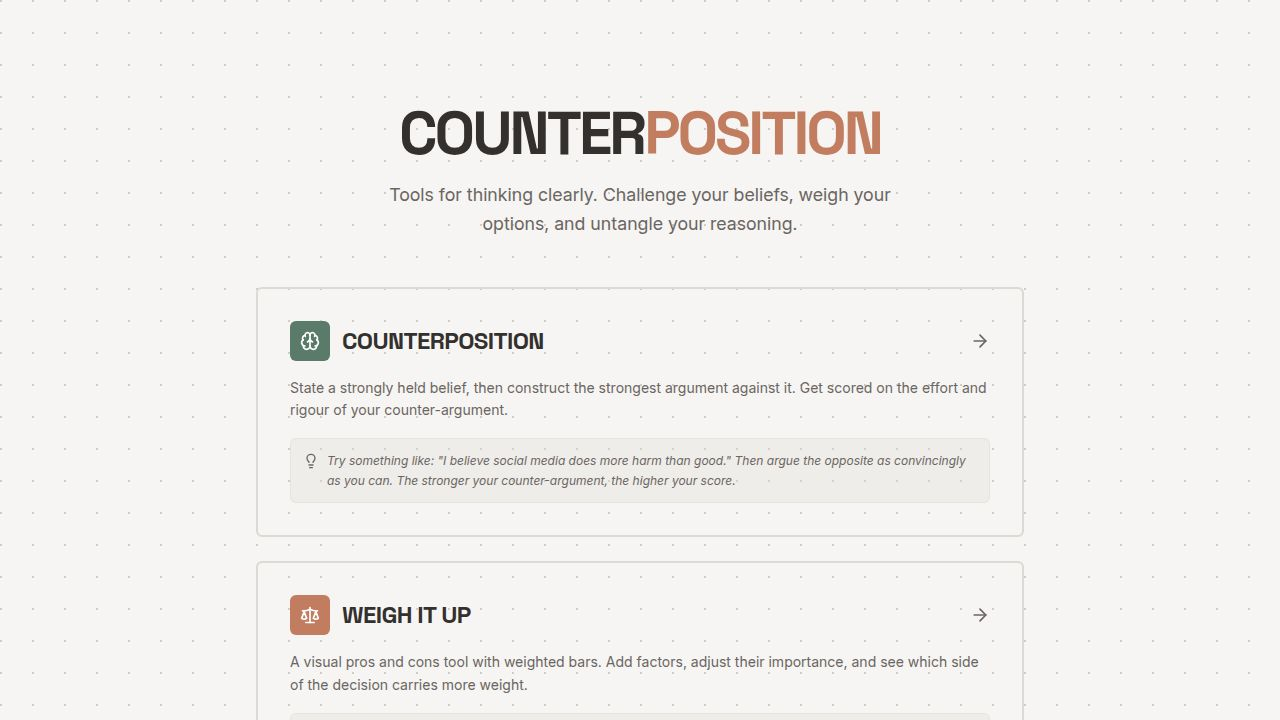
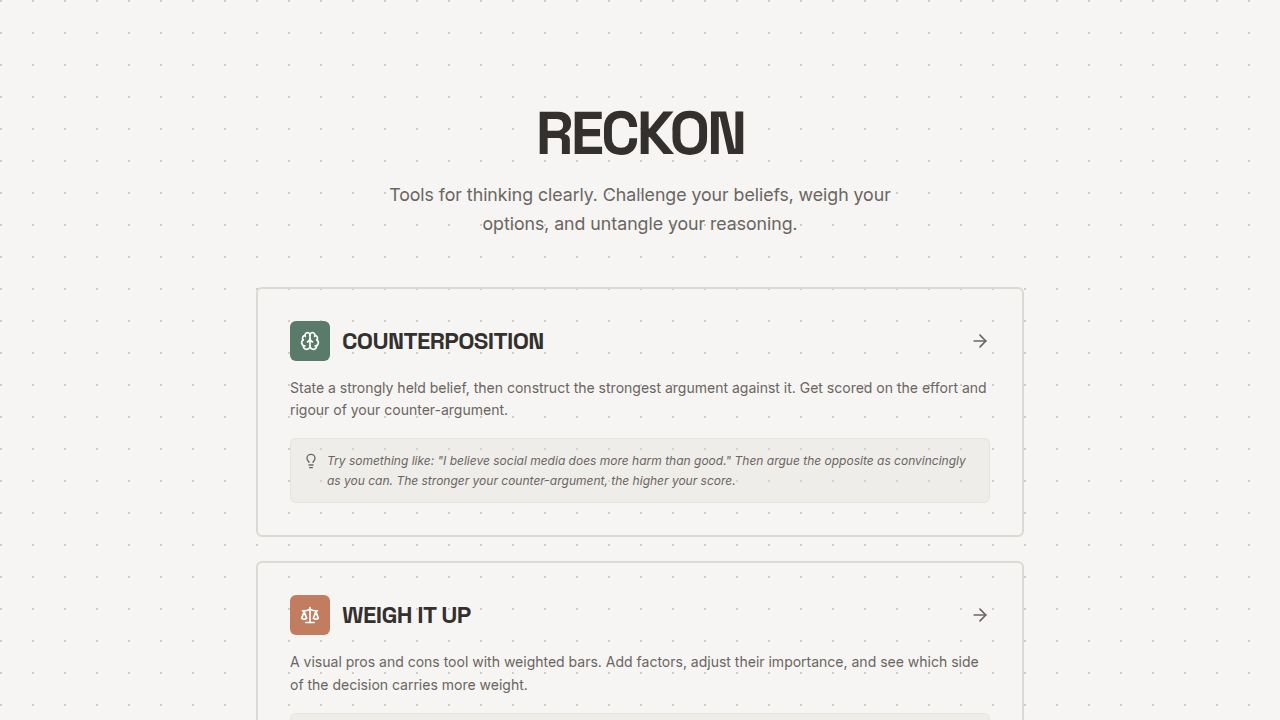
Update the application name and branding to "Reckon"
Update the application name from "Counterposition" to "Reckon" across all relevant files, including index.html, disclaimer.tsx, and home.tsx, and update the replit.md file accordingly.

Replit-Commit-Author: Agent
Replit-Commit-Session-Id: c56cb9f0-ece5-44cb-8091-604c8c0c9004
Replit-Commit-Checkpoint-Type: full_checkpoint
Replit-Commit-Event-Id: db3dcd39-e894-4f36-9f07-ffc56135f96e
Replit-Commit-Screenshot-Url: https://storage.googleapis.com/screenshot-production-us-central1/ae5b64c9-4776-44ef-aa27-5b3fa9850580/c56cb9f0-ece5-44cb-8091-604c8c0c9004/HMcQsaC
Replit-Helium-Checkpoint-Created: true

Changed region(s): [[0.3125, 0.1528, 0.6875, 0.2139]]

diff --git a/client/src/pages/disclaimer.tsx b/client/src/pages/disclaimer.tsx
@@ -23,7 +23,7 @@ export default function Disclaimer() {
           <div>
             <h1 className="text-4xl font-bold uppercase tracking-tighter">Terms of Use</h1>
             <p className="text-sm text-muted-foreground mt-2">
-              Please read the following carefully before using Counterposition.
+              Please read the following carefully before using Reckon.
             </p>
           </div>
 
@@ -32,7 +32,7 @@ export default function Disclaimer() {
               <h2 className="text-lg font-bold uppercase tracking-wider">1. Purpose and Scope</h2>
               <div className="border-l-4 border-[#5B7B6A] pl-4 space-y-2">
                 <p className="text-sm leading-relaxed text-muted-foreground">
-                  Counterposition is a cognitive exercise tool designed to assist users in structuring their thinking around decisions, beliefs, and trade-offs. The tools provided — including the counterargument scorer, Weigh It Up, and Unthread — are intended solely as guides to support personal reflection and decision-making processes.
+                  Reckon is a cognitive exercise tool designed to assist users in structuring their thinking around decisions, beliefs, and trade-offs. The tools provided — including the counterargument scorer, Weigh It Up, and Unthread — are intended solely as guides to support personal reflection and decision-making processes.
                 </p>
                 <p className="text-sm leading-relaxed text-muted-foreground">
                   This platform does not provide professional advice of any kind, including but not limited to financial, legal, medical, or psychological advice. It should not be used as a substitute for qualified professional consultation.
@@ -56,7 +56,7 @@ export default function Disclaimer() {
               <h2 className="text-lg font-bold uppercase tracking-wider">3. Limitation of Liability</h2>
               <div className="border-l-4 border-[#5B7B6A] pl-4 space-y-2">
                 <p className="text-sm leading-relaxed text-muted-foreground">
-                  Counterposition and its creators accept no responsibility or liability for any decisions made, actions taken, or outcomes arising from the use of this tool. The results, scores, and insights generated by this platform are intended to provoke thought and facilitate structured reasoning — they are not directives, recommendations, or endorsements of any particular course of action.
+                  Reckon and its creators accept no responsibility or liability for any decisions made, actions taken, or outcomes arising from the use of this tool. The results, scores, and insights generated by this platform are intended to provoke thought and facilitate structured reasoning — they are not directives, recommendations, or endorsements of any particular course of action.
                 </p>
                 <p className="text-sm leading-relaxed text-muted-foreground">
                   Users acknowledge that they bear full responsibility for any decisions they make, whether or not those decisions are informed by the use of this platform.
@@ -68,7 +68,7 @@ export default function Disclaimer() {
               <h2 className="text-lg font-bold uppercase tracking-wider">4. Data Handling</h2>
               <div className="border-l-4 border-[#5B7B6A] pl-4 space-y-2">
                 <p className="text-sm leading-relaxed text-muted-foreground">
-                  Information entered into Counterposition is processed in real time and is not stored, saved, or retained beyond the duration of your active session. Once you leave or refresh the page, all data you have entered is permanently discarded.
+                  Information entered into Reckon is processed in real time and is not stored, saved, or retained beyond the duration of your active session. Once you leave or refresh the page, all data you have entered is permanently discarded.
                 </p>
                 <p className="text-sm leading-relaxed text-muted-foreground">
                   Notwithstanding the above, users should exercise caution and avoid entering information they would not be comfortable sharing in a non-secure environment.
@@ -80,7 +80,7 @@ export default function Disclaimer() {
               <h2 className="text-lg font-bold uppercase tracking-wider">5. Acceptance</h2>
               <div className="border-l-4 border-[#5B7B6A] pl-4 space-y-2">
                 <p className="text-sm leading-relaxed text-muted-foreground">
-                  By using Counterposition, you acknowledge that you have read, understood, and agree to these terms. Continued use of the platform constitutes acceptance of these conditions in full.
+                  By using Reckon, you acknowledge that you have read, understood, and agree to these terms. Continued use of the platform constitutes acceptance of these conditions in full.
                 </p>
               </div>
             </section>
@@ -90,7 +90,7 @@ export default function Disclaimer() {
             <Link href="/">
               <button className="text-sm uppercase tracking-widest text-muted-foreground hover:text-foreground transition-colors" data-testid="link-back-bottom">
                 <ArrowLeft className="h-4 w-4 inline mr-2" />
-                Return to Counterposition
+                Return to Reckon
               </button>
             </Link>
           </div>

diff --git a/client/index.html b/client/index.html
@@ -5,19 +5,19 @@
     <meta name="viewport" content="width=device-width, initial-scale=1.0, maximum-scale=1" />
     <meta name="google-site-verification" content="W39SxZ8rBcrQ7VyBhLa44vnV_yzECgHMhQFXv9YBivk" />
 
-    <title>Counterposition — Challenge Your Own Beliefs</title>
-    <meta name="description" content="Counterposition is a cognitive exercise where you state a strongly held belief, then build the strongest possible argument against it. Train your critical thinking and intellectual flexibility." />
+    <title>Reckon — Tools for Thinking Clearly</title>
+    <meta name="description" content="Reckon is a set of thinking tools. Challenge your beliefs, weigh your options, and untangle your reasoning. Ponder. Refine. Decide." />
 
-    <meta property="og:title" content="Counterposition — Challenge Your Own Beliefs" />
-    <meta property="og:description" content="A cognitive exercise where you argue against your own strongest beliefs. Build counter-arguments, get scored on depth, rhetorical range, and intellectual friction." />
+    <meta property="og:title" content="Reckon — Tools for Thinking Clearly" />
+    <meta property="og:description" content="A set of thinking tools to challenge your beliefs, weigh your options, and untangle your reasoning. Ponder. Refine. Decide." />
     <meta property="og:type" content="website" />
     <meta property="og:url" content="https://counterposition.replit.app" />
     <meta property="og:image" content="https://replit.com/public/images/opengraph.png" />
 
     <meta name="twitter:card" content="summary_large_image" />
     <meta name="twitter:site" content="@replit" />
-    <meta name="twitter:title" content="Counterposition — Challenge Your Own Beliefs" />
-    <meta name="twitter:description" content="A cognitive exercise where you argue against your own strongest beliefs. Build counter-arguments, get scored on depth, rhetorical range, and intellectual friction." />
+    <meta name="twitter:title" content="Reckon — Tools for Thinking Clearly" />
+    <meta name="twitter:description" content="A set of thinking tools to challenge your beliefs, weigh your options, and untangle your reasoning. Ponder. Refine. Decide." />
     <meta name="twitter:image" content="https://replit.com/public/images/opengraph.png" />
 
     <meta name="robots" content="index, follow" />

diff --git a/client/src/pages/home.tsx b/client/src/pages/home.tsx
@@ -40,7 +40,7 @@ export default function Home() {
         >
           <div className="text-center pt-12 sm:pt-20 pb-12">
             <h1 className="text-5xl sm:text-6xl font-bold uppercase tracking-tighter leading-none">
-              Counter<span className="text-[#C27D60]">position</span>
+              Reckon
             </h1>
             <p className="text-lg text-muted-foreground mt-4 max-w-lg mx-auto leading-relaxed">
               Tools for thinking clearly. Challenge your beliefs, weigh your options, and untangle your reasoning.

diff --git a/replit.md b/replit.md
@@ -1,6 +1,6 @@
-# Counterposition
+# Reckon
 
-A cognitive exercise web app with three tools for structured thinking and decision-making.
+A cognitive exercise web app with three tools for structured thinking and decision-making. Formerly "Counterposition".
 
 ## Pages
 
